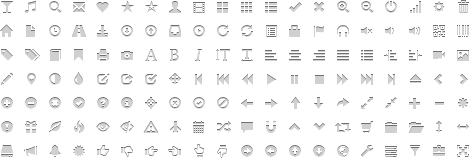
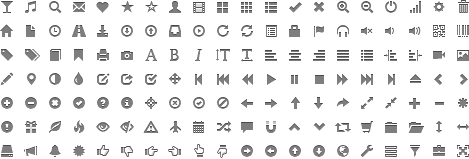
The previous was too bright.

diff --git a/public/css/custom.css b/public/css/custom.css
@@ -173,3 +173,7 @@ th {
 .text-center > th {
 	text-align: center;
 }
+
+.dropdown-menu .divider {
+	border-bottom: 1px solid rgb(196, 196, 196);
+}
